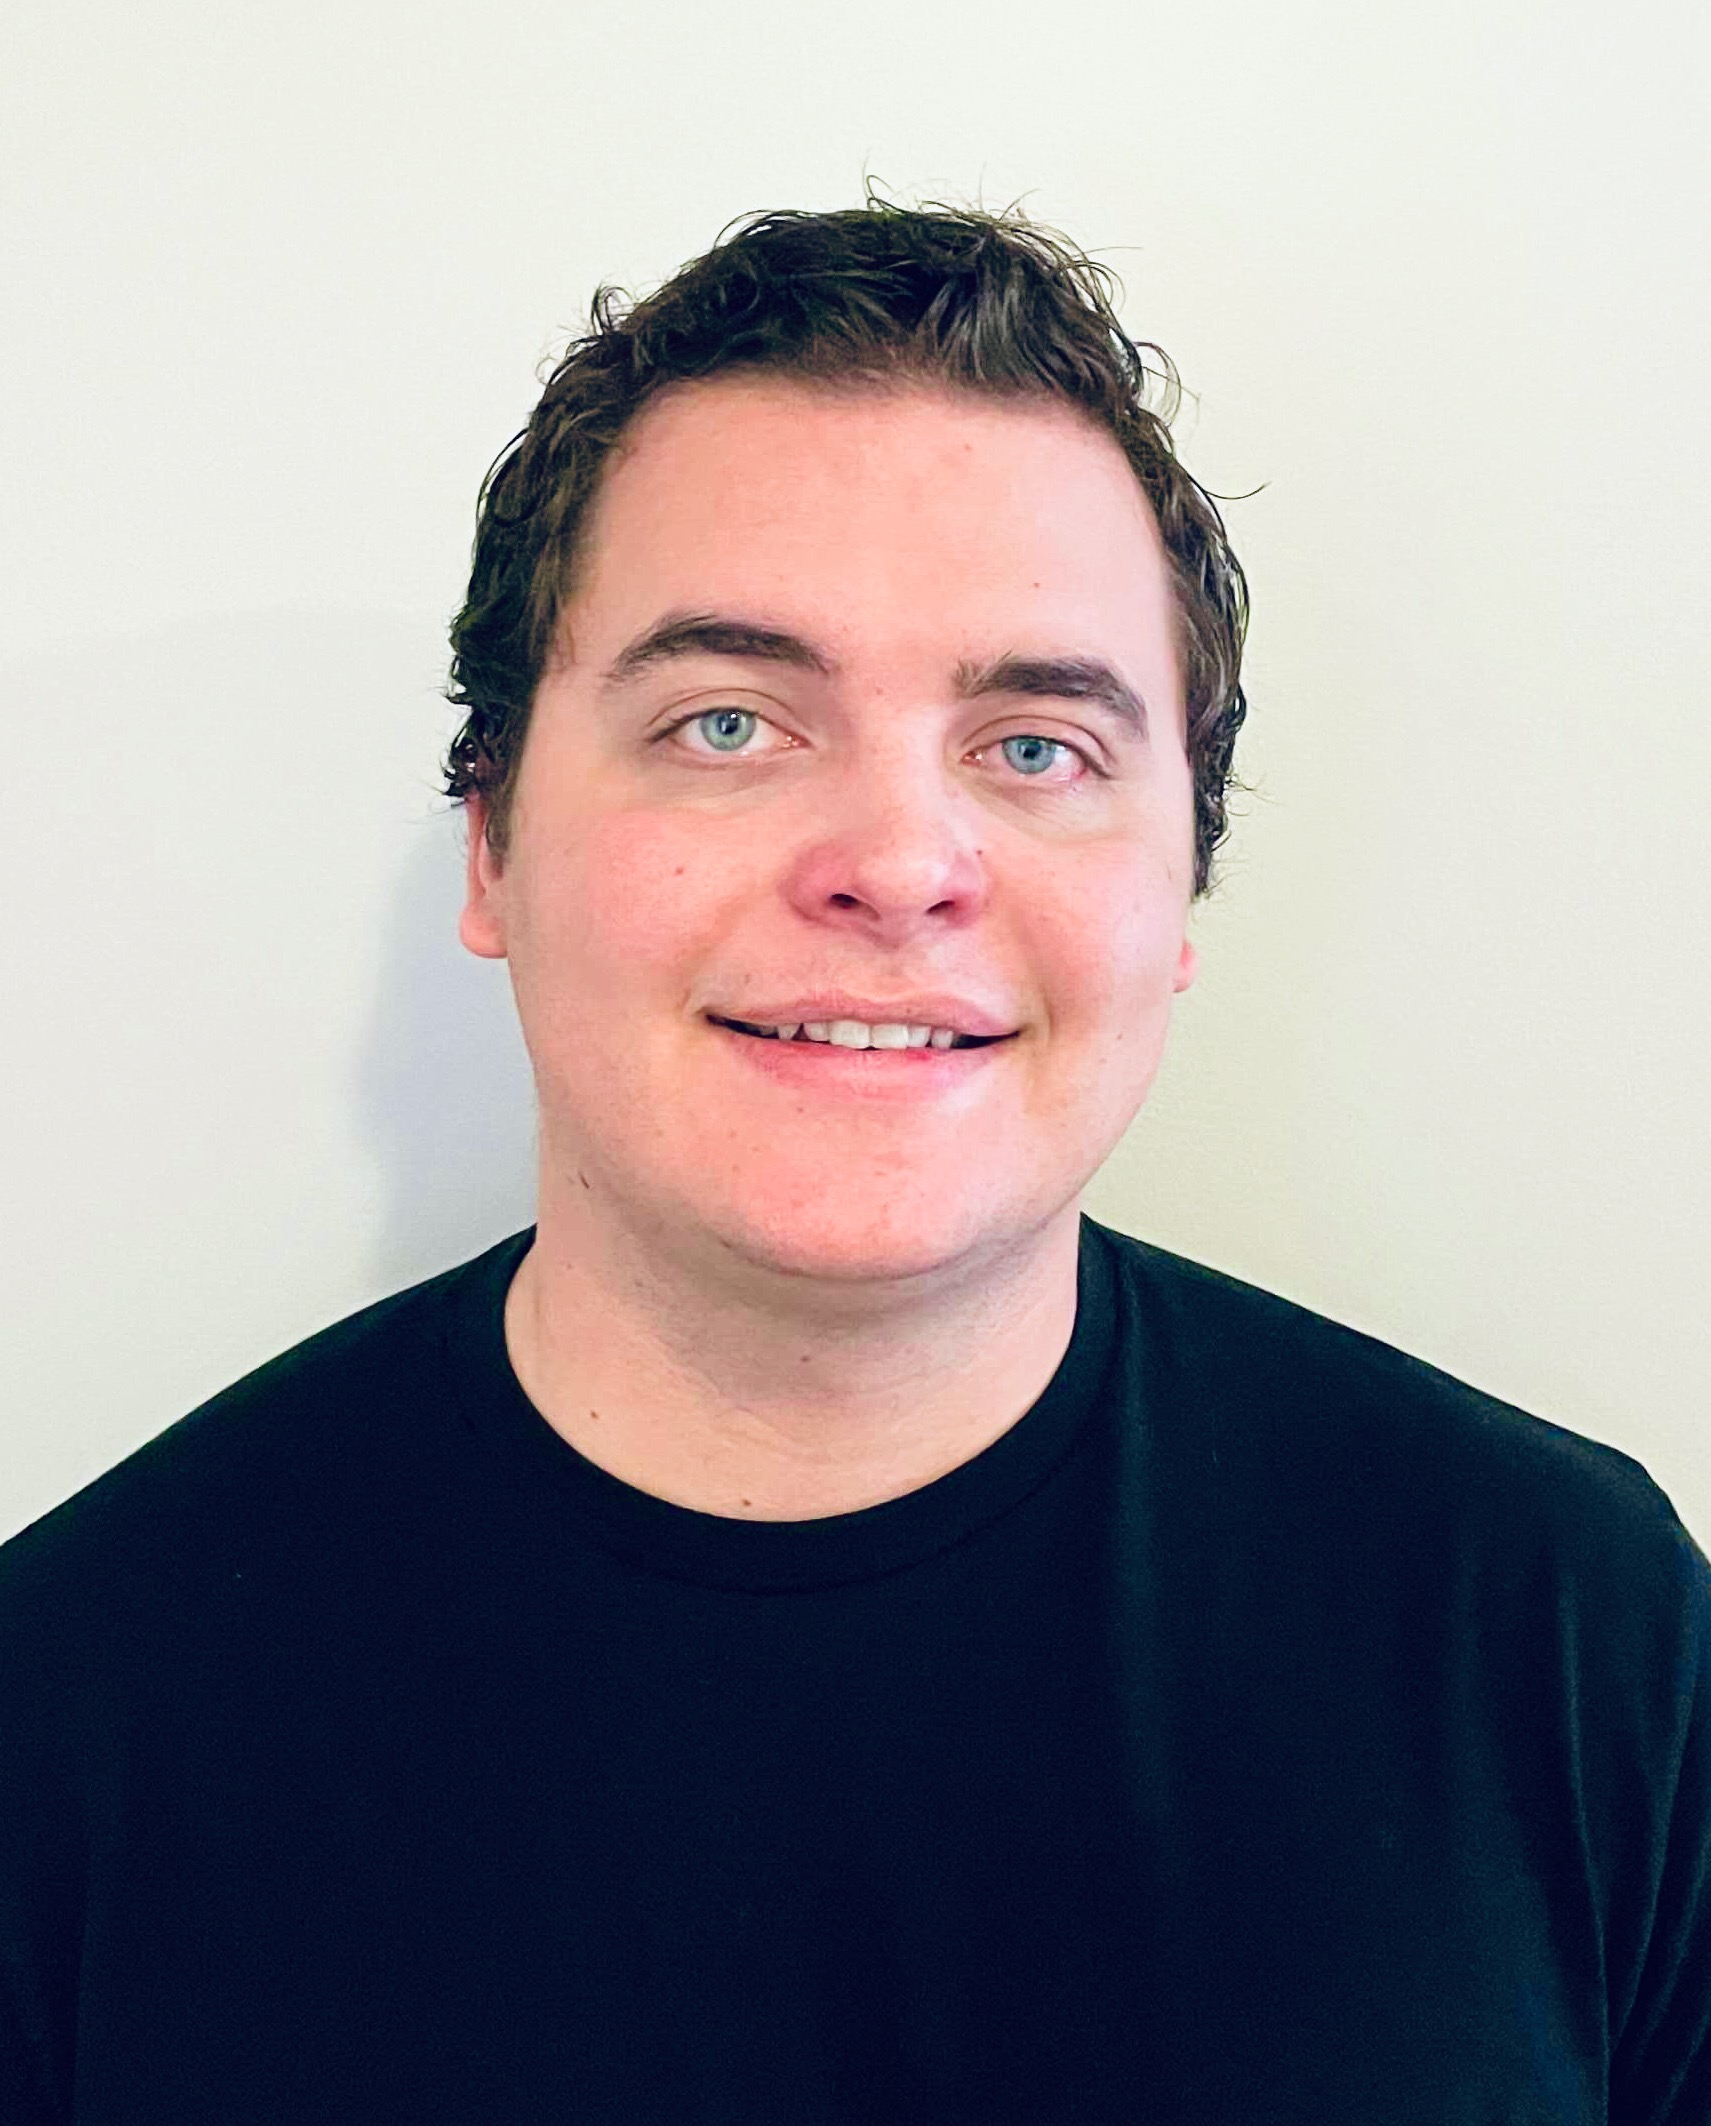
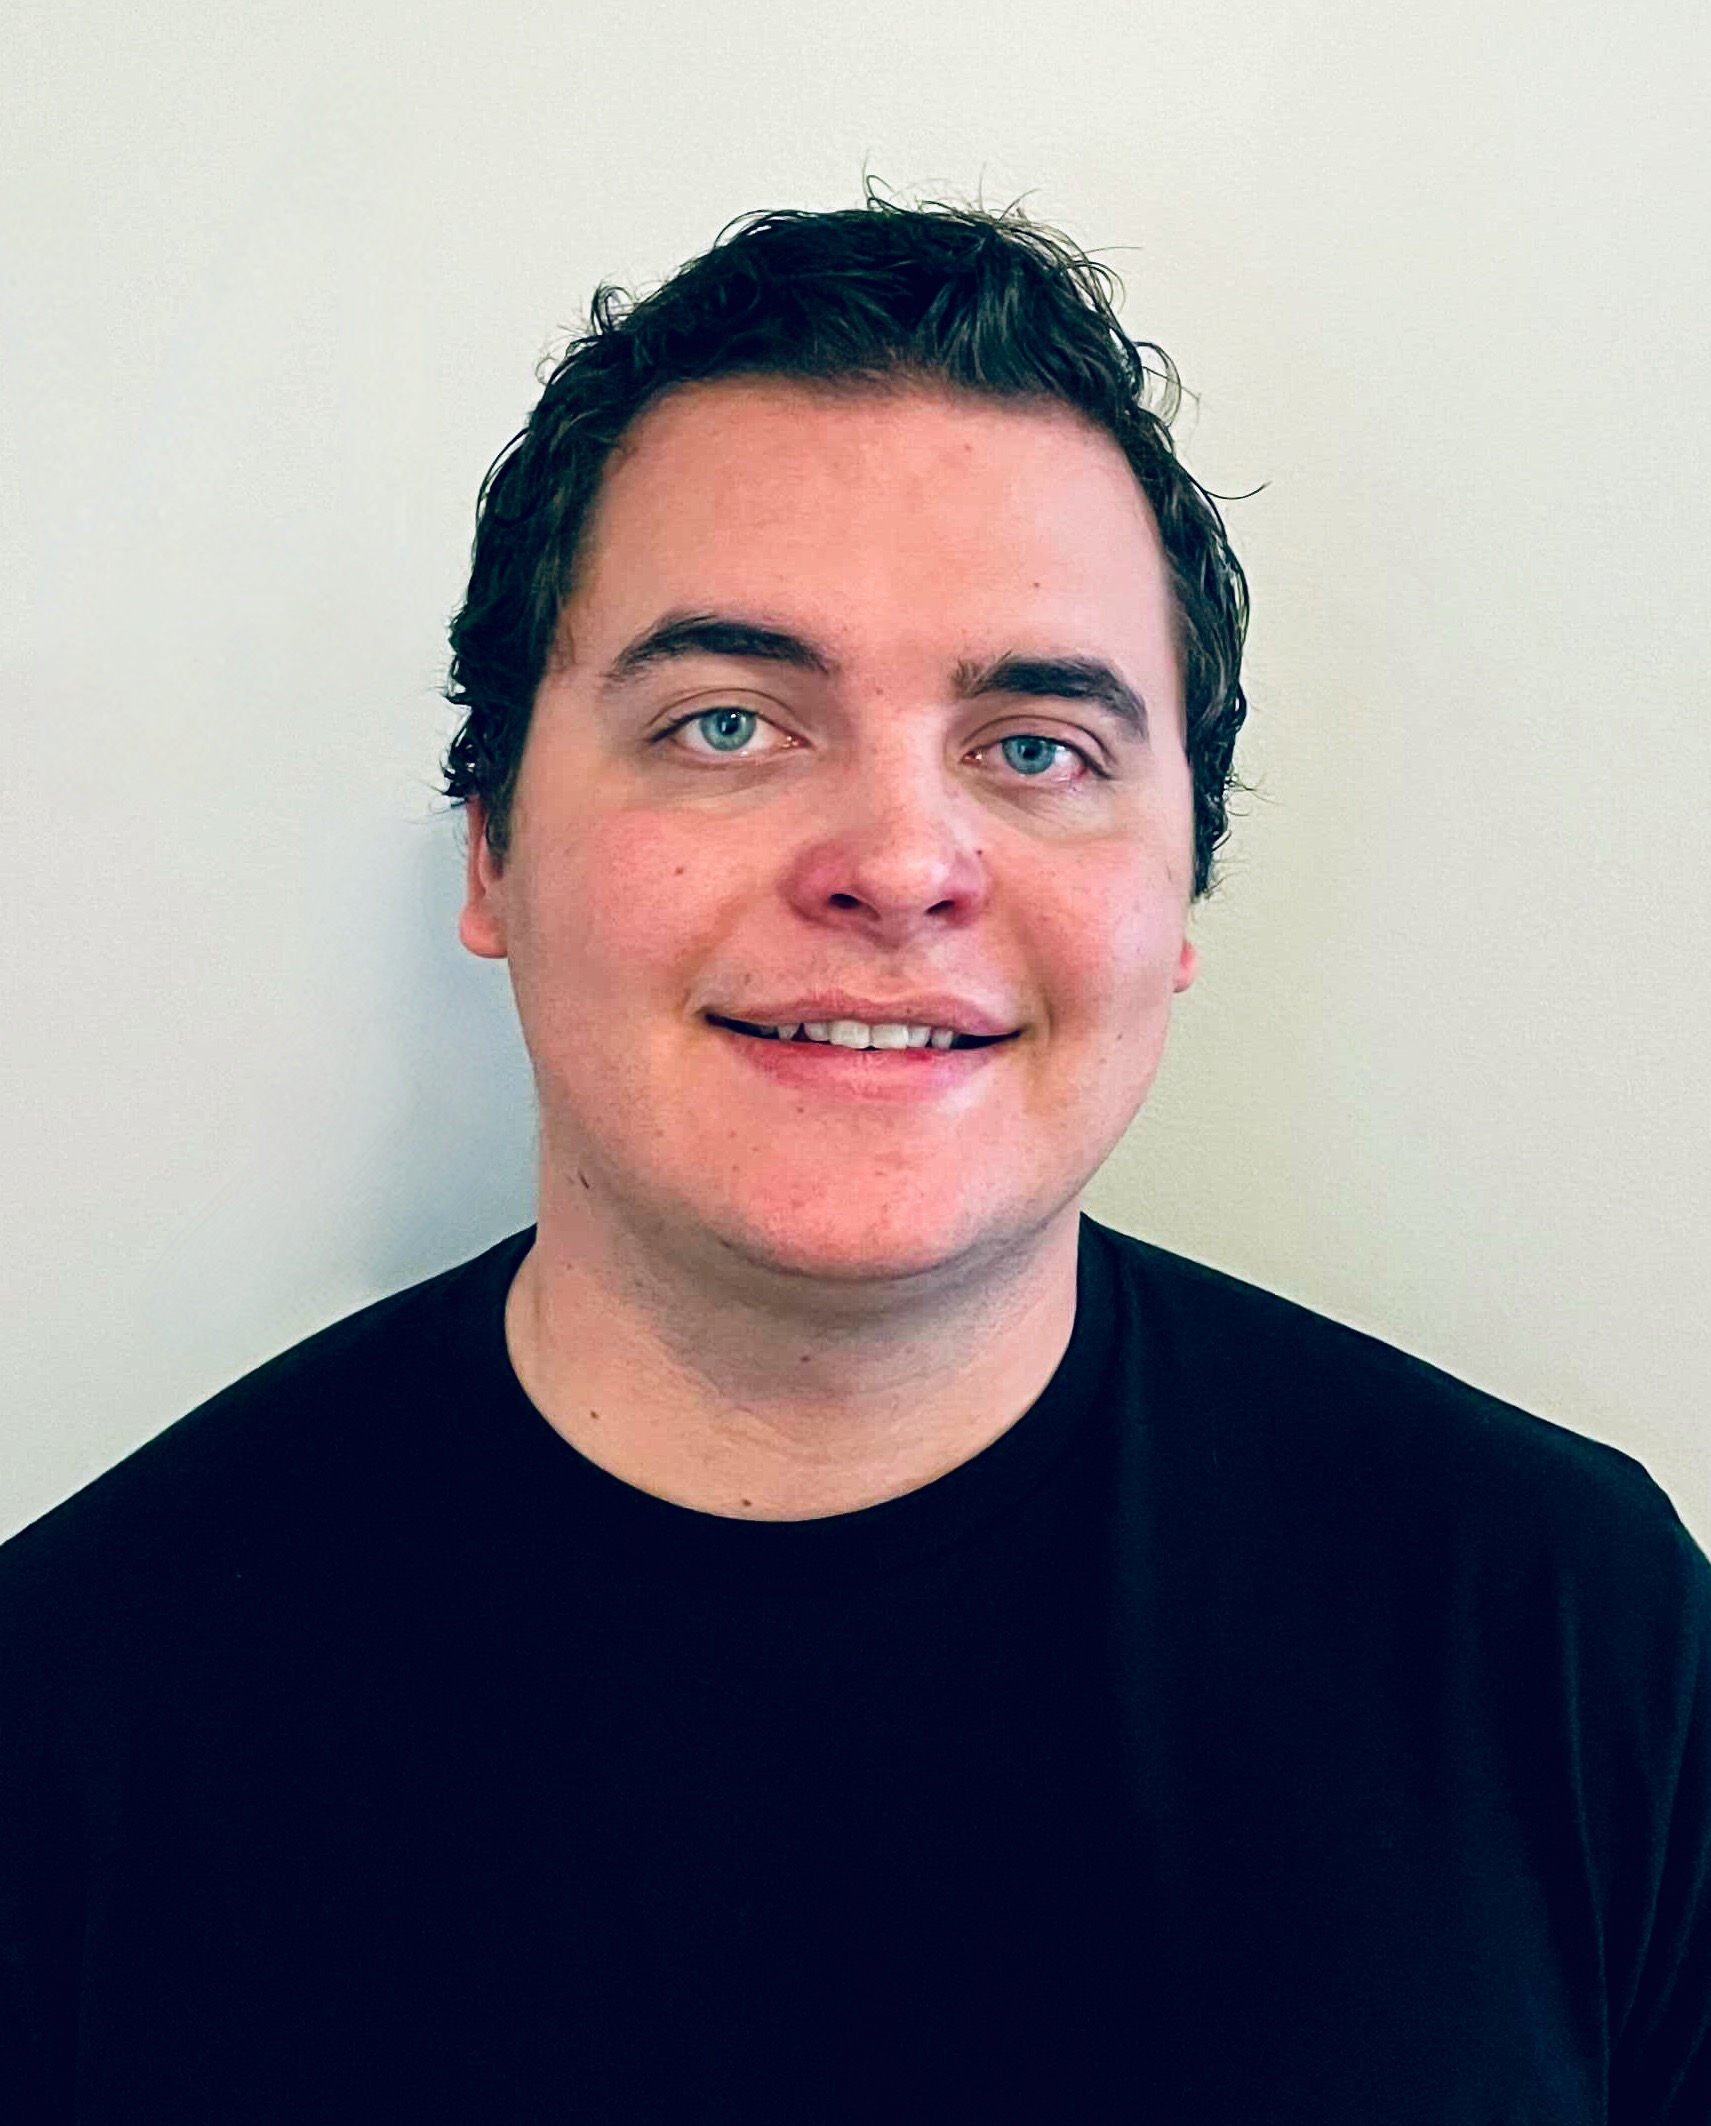
about photos

diff --git a/client/src/pages/About.js b/client/src/pages/About.js
@@ -7,7 +7,7 @@ import email from "../images/email.png";
 import elise from "../images/elise.jpeg";
 import alan from "../images/alan.jpeg";
 import rafael from "../images/rafael.jpeg";
-import kelsey from "../images/kelsey.gif";
+import kelsey from "../images/kelsey.jpg";
 import lee from "../images/lee.jpeg";
 
 const Style = styled.div`

diff --git a/client/src/StyleSheets/Dashboard.css b/client/src/StyleSheets/Dashboard.css
@@ -26,14 +26,6 @@
   display: none;
 }
 
-/* .wallet-container {
-  padding: 8px 16px 8px 0;
-  display: flex;
-  flex-direction: column;
-  justify-content: space-evenly;
-  width: 100%;
-} */
-
 .punchContainer {
   display: flex;
   justify-content: space-around;

diff --git a/client/src/StyleSheets/Profile.css b/client/src/StyleSheets/Profile.css
@@ -46,7 +46,7 @@
   align-items: center;
   background-color: #d7272f;
   text-align: center;
-  margin-bottom: 40px;
+  margin-bottom: 60px;
 }
 
 .profile-name {
